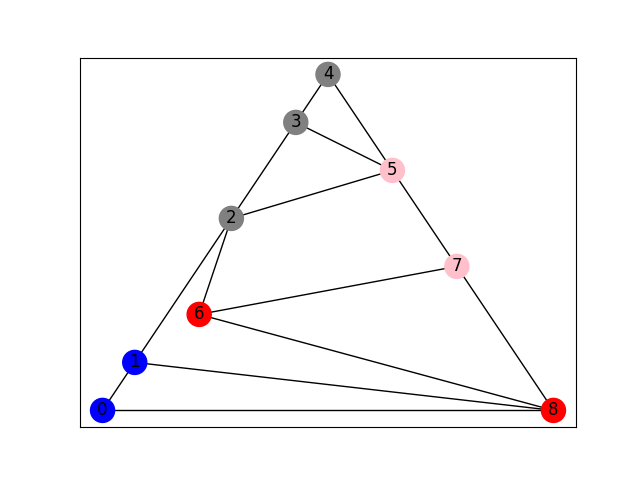
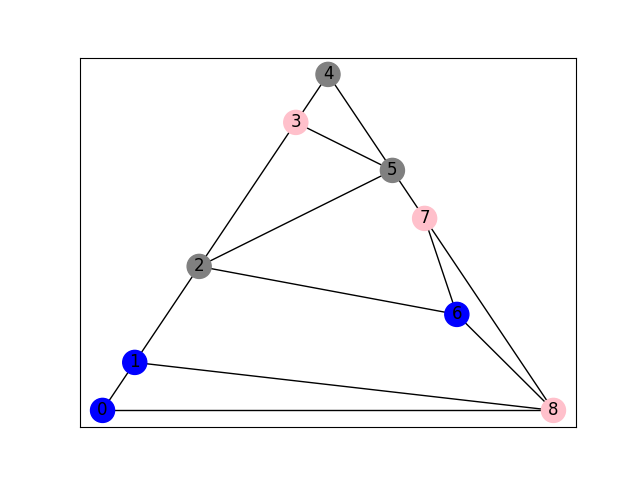
Solved community problem

diff --git a/Week4/Week4_Assignment.py b/Week4/Week4_Assignment.py
@@ -11,8 +11,10 @@ colors = [
     "lawngreen", "lightgray", "sienna", "khaki", "mistyrose"]
 
 G = nx.read_graphml(r"Week4\assignment3_graph.graphml")
+H = nx.read_graphml(r"Week4\assignment3_graph.graphml")
 
-p = nx.planar_layout(G)
+p_G = nx.planar_layout(G)
+p_H = nx.planar_layout(H)
 
 color_dict = nx.coloring.greedy_color(G, strategy="random_sequential")
 
@@ -23,6 +25,30 @@ node_colors = []
 for i in color_dict.keys():
     node_colors.append(colors[color_dict[i]])
 
-nx.draw_networkx(G, pos=p, with_labels=True, node_color=node_colors)
+print(node_colors)
+
+nx.draw_networkx(G, pos=p_G, with_labels=True, node_color=node_colors)
 plt.savefig(r"Week4\colored_graph.png", format="PNG")
+plt.show()
+
+coms = girvan_newman(H)
+node_coms = []
+
+# print(coms)
+# print(type(coms))
+
+for community in next(coms):
+    # print(community)
+    node_coms.append(community)
+
+coms_node_colors = []
+for nc in range(len(node_coms)):
+    col = random.randint(0, len(colors) - 1)
+    print(col)
+    for node in H:
+        if node in node_coms[nc]:
+            coms_node_colors.append(colors[col])
+
+nx.draw_networkx(H, pos=p_H, node_color=coms_node_colors)
+plt.savefig(r"Week4\community_graph.png", format="PNG")
 plt.show()
